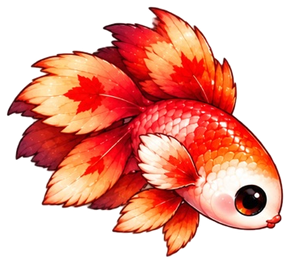
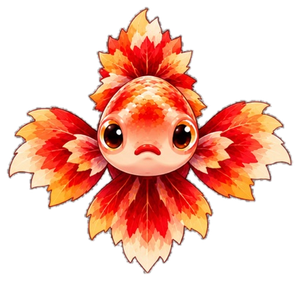
Maple Betta female: new red/orange art, angled pose is eat frame

diff --git a/public/js/data.js b/public/js/data.js
@@ -84,7 +84,7 @@ const DATA = {
 
 /** Frame roles: 0 idle, 1-4 swim, 5 eat (only while eating), 6 sleep, 7 rear/turn */
 // Bump SPRITE_V whenever shipped art changes so phones don't keep stale cached PNGs.
-const SPRITE_V = 32;
+const SPRITE_V = 33;
 // Species with a custom hybrid egg icon (assets/eggs/<species_id>.png).
 const EGG_V = 1;
 const EGG_ART = {
